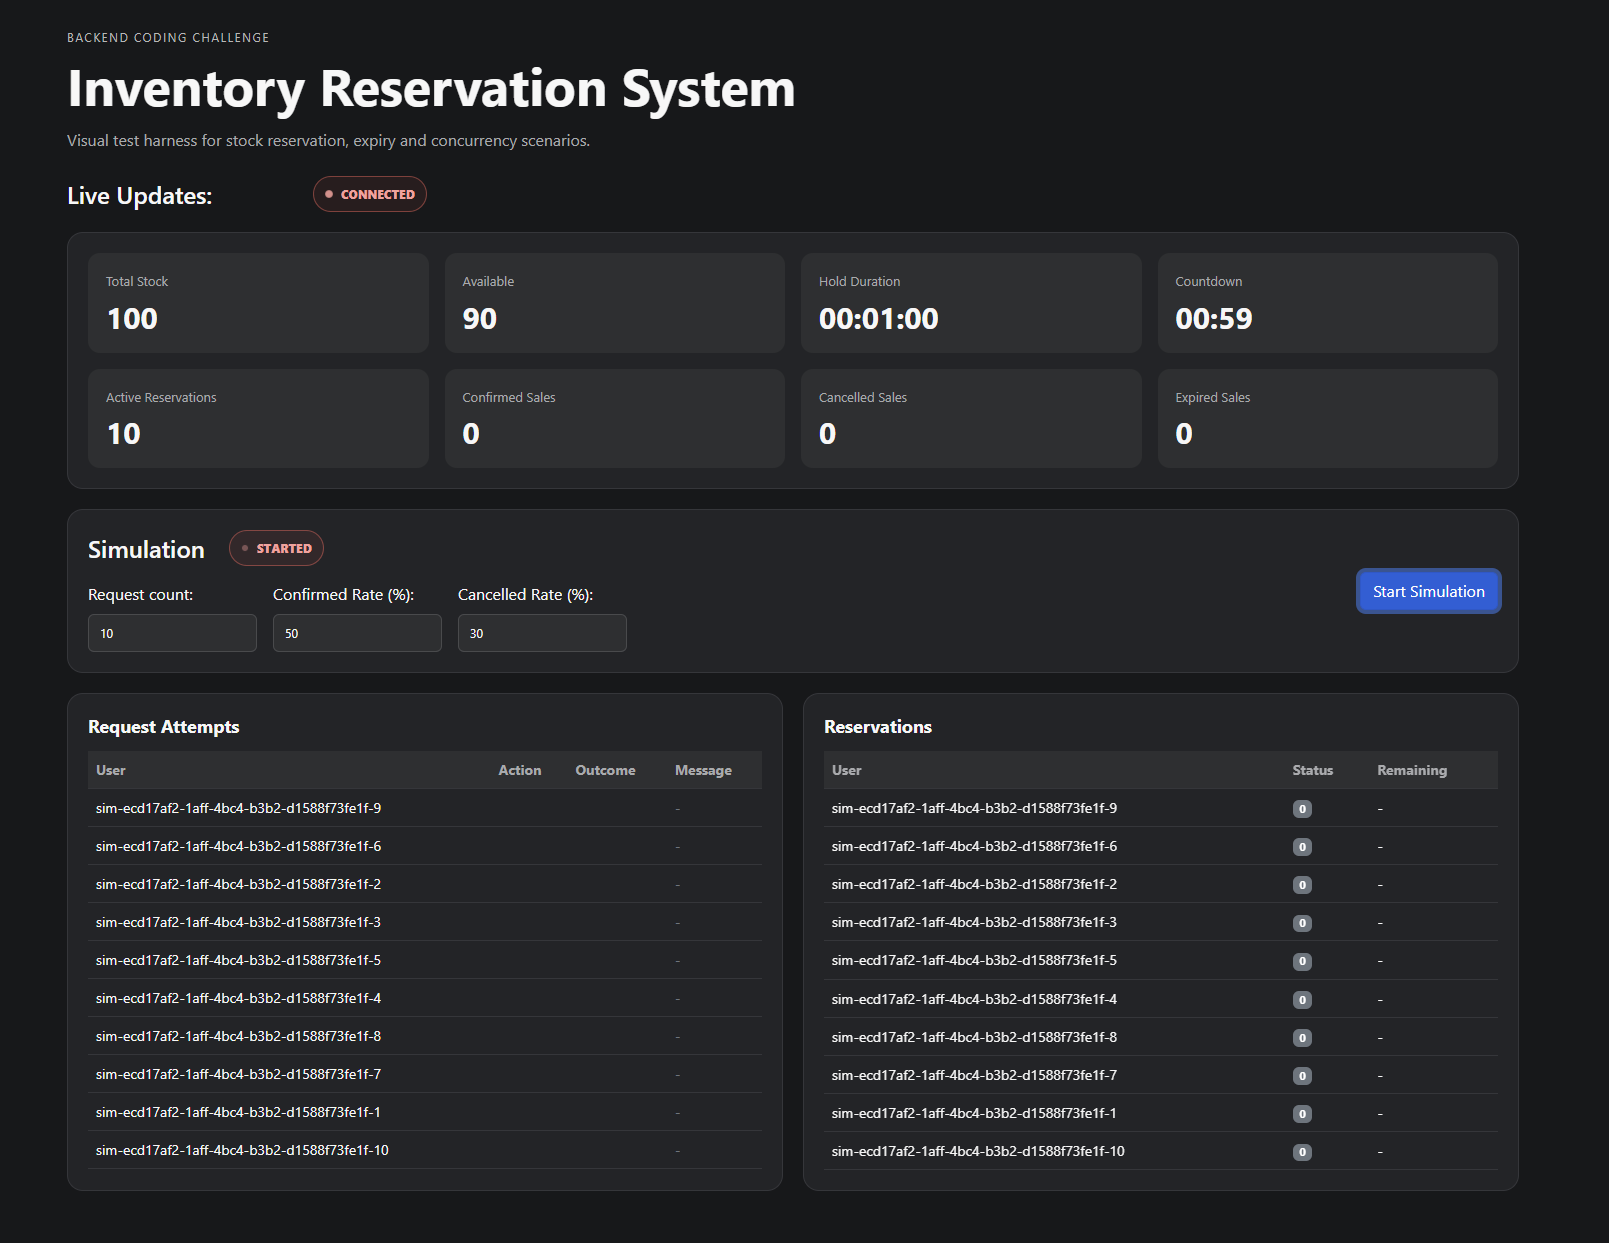
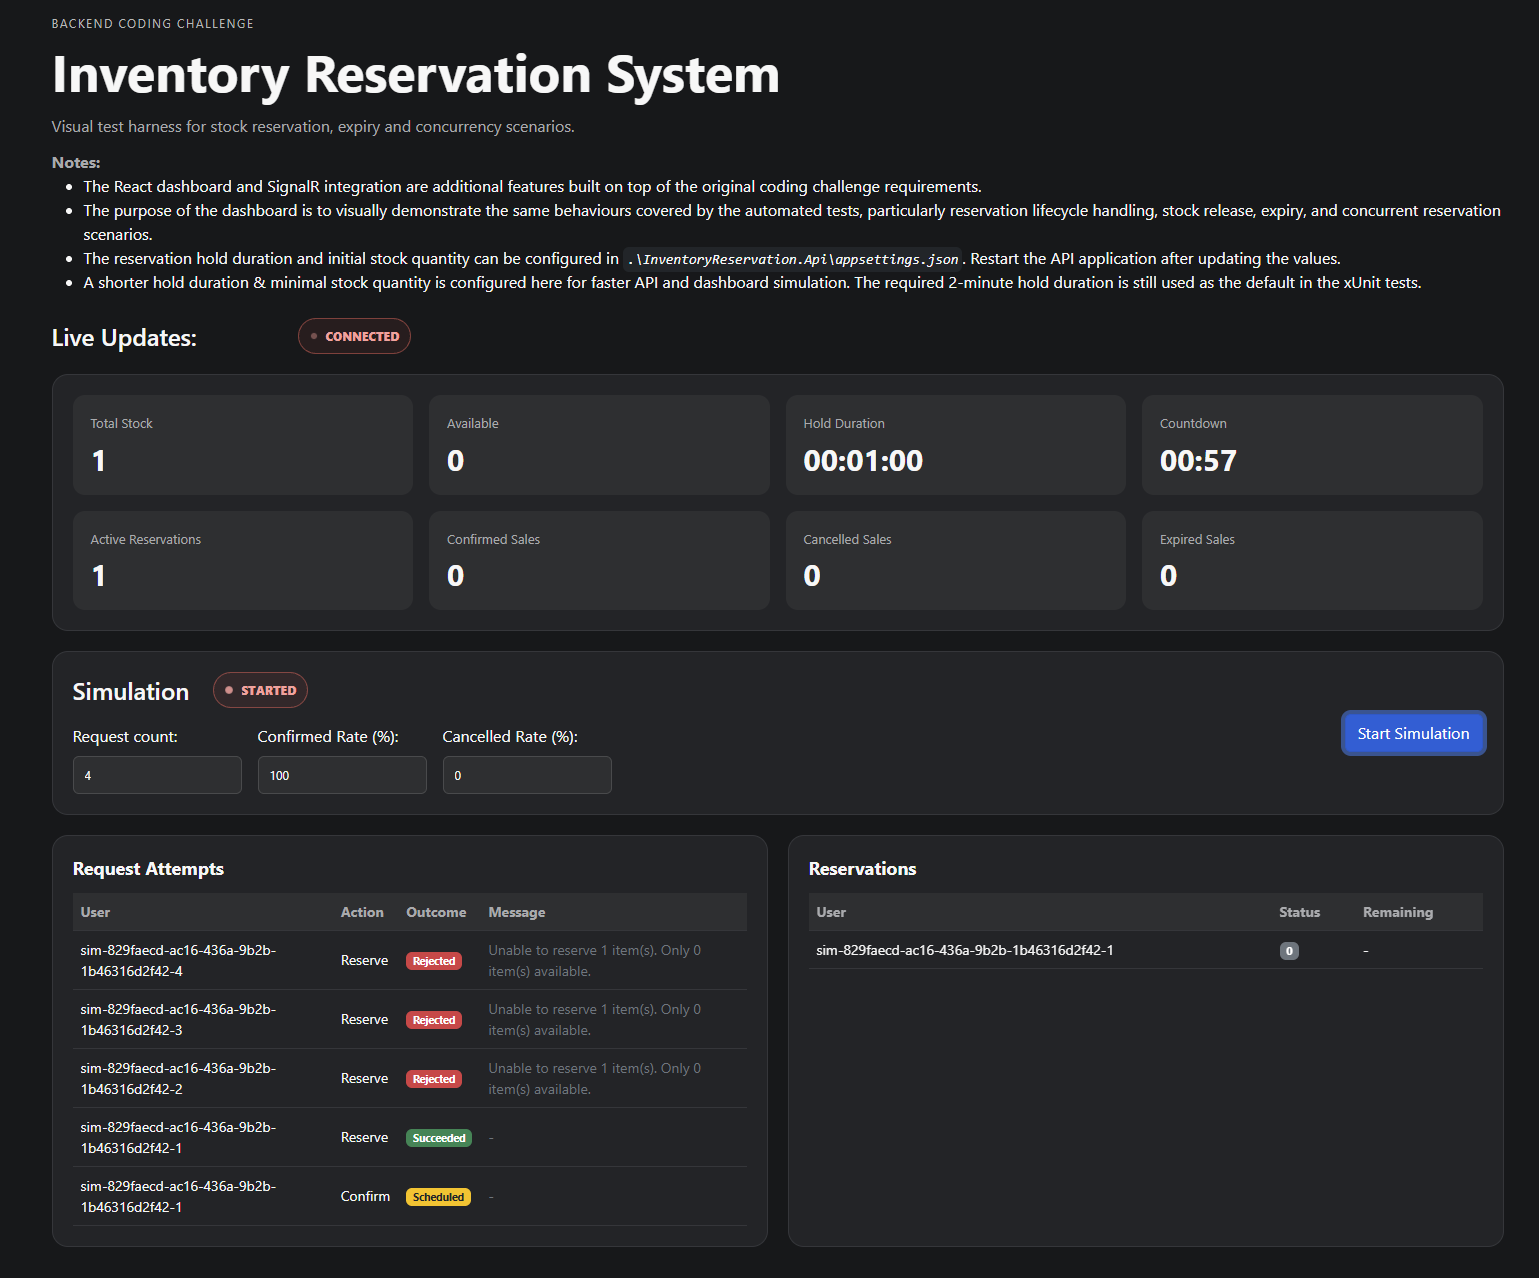
docs: Update README to clearly mention the objective / additional notes for UI Dashboard
fix:
1. improve API return object for UI
2. Fix & improve UI dashboard logic to show simulated events
3. Added callbacks to some components to handle reservation lifecycle progress

diff --git a/InventoryReservation.Web/src/App.jsx b/InventoryReservation.Web/src/App.jsx
@@ -15,6 +15,7 @@ export default function App() {
   const [holdDuration, setHoldDuration] = useState("");
   const [simulationStart, setSimulationStart] = useState(false);
   const [countdownEndTime, setCountdownEndTime] = useState(null);
+  const [simulationEvents, setSimulationEvents] = useState([]);
 
   useEffect(() => {
     getHoldDurationConfig().then((data) => {
@@ -28,8 +29,11 @@ export default function App() {
     const holdDurationSeconds = 60;
 
     setCountdownEndTime(Date.now() + holdDurationSeconds * 1000);
-
     // start simulation...
+  };
+
+  const handleSimulationEvent = (event) => {
+    setSimulationEvents((previous) => [...previous, event]);
   };
 
   return (
@@ -41,6 +45,35 @@ export default function App() {
           Visual test harness for stock reservation, expiry and concurrency
           scenarios.
         </p>
+        <p className="subtitle">
+          <strong>Notes:</strong>
+        </p>
+
+        <ul>
+          <li>
+            The React dashboard and SignalR integration are additional features
+            built on top of the original coding challenge requirements.
+          </li>
+          <li>
+            The purpose of the dashboard is to visually demonstrate the same
+            behaviours covered by the automated tests, particularly reservation
+            lifecycle handling, stock release, expiry, and concurrent
+            reservation scenarios.
+          </li>
+          <li>
+            The reservation hold duration and initial stock quantity can be
+            configured in{" "}
+            <code className="bg-dark text-light p-1 rounded">
+              <i>.\InventoryReservation.Api\appsettings.json</i>
+            </code>
+            . Restart the API application after updating the values.
+          </li>
+          <li>
+            A shorter hold duration & minimal stock quantity is configured here
+            for faster API and dashboard simulation. The required 2-minute hold
+            duration is still used as the default in the xUnit tests.
+          </li>
+        </ul>
       </header>
       <div className="row mt-4">
         <div className="col-sm-2 d-flex align-items-center">
@@ -71,10 +104,12 @@ export default function App() {
           setSimulationStart(value);
           handleStartSimulation();
         }}
+
+        callbackSimulationEvent={handleSimulationEvent}
       />
 
       <section className="grid">
-        <RequestAttemptsTable inventorySnapshot={inventorySnapshot} />
+        <RequestAttemptsTable simulationEvents={simulationEvents} />
         <ReservationsTable inventorySnapshot={inventorySnapshot} />
       </section>
     </main>

diff --git a/InventoryReservation.Web/src/components/SimulationControls.jsx b/InventoryReservation.Web/src/components/SimulationControls.jsx
@@ -4,16 +4,17 @@ import PropTypes from "prop-types";
 
 const defaultSimulationFormData = {
   requestCount: 10,
-  confirmedRate: 50,
-  cancelledRate: 30,
+  confirmedRate: 100,
+  cancelledRate: 0,
 };
 
 SimulationControls.propTypes = {
   onSimulationStart: PropTypes.func,
+  callbackSimulationEvent: PropTypes.func,
 };
 
 export default function SimulationControls(props) {
-  const { onSimulationStart } = props;
+  const { onSimulationStart, callbackSimulationEvent } = props;
 
   const [formData, setFormData] = useState(defaultSimulationFormData);
   const [errors, setErrors] = useState({});
@@ -27,11 +28,11 @@ export default function SimulationControls(props) {
   }, []);
 
   const handleChange = (e) => {
-    const { name, value } = e.target;
+    const { name, value, type } = e.target;
 
     setFormData((current) => ({
       ...current,
-      [name]: value,
+      [name]: type === "number" && !isNaN(value) ? Number(value) : value,
     }));
 
     if (errors[name]) {
@@ -59,15 +60,15 @@ export default function SimulationControls(props) {
         "Request count must be a positive integer.";
     }
 
-    if (Number(formData.confirmedRate) === 0) {
-      validationErrors.confirmedRate =
-        "Confirm percentages must be positive integer.";
-    }
+    // if (Number(formData.confirmedRate) === 0) {
+    //   validationErrors.confirmedRate =
+    //     "Confirm percentages must be positive integer.";
+    // }
 
-    if (Number(formData.cancelledRate) === 0) {
-      validationErrors.cancelledRate =
-        "Cancel percentages must be positive integer.";
-    }
+    // if (Number(formData.cancelledRate) === 0) {
+    //   validationErrors.cancelledRate =
+    //     "Cancel percentages must be positive integer.";
+    // }
 
     if (
       !validationErrors.confirmedRate &&
@@ -102,8 +103,7 @@ export default function SimulationControls(props) {
       cancelPercent: formData.cancelledRate,
       onEvent: (event) => {
         setSimulationEvents((previous) => [...previous, event]);
-        console.debug("onEvent: ", event);
-        console.debug("onEvent: ", simulationEvents);
+        callbackSimulationEvent(event);
       },
     };
 

diff --git a/InventoryReservation.Web/src/components/RequestAttemptsTable.jsx b/InventoryReservation.Web/src/components/RequestAttemptsTable.jsx
@@ -1,11 +1,11 @@
 import PropTypes from "prop-types";
 
 RequestAttemptsTable.propTypes = {
-  inventorySnapshot: PropTypes.object,
+  simulationEvents: PropTypes.object,
 };
 
 export default function RequestAttemptsTable(props) {
-  const { inventorySnapshot } = props;
+  const { simulationEvents } = props;
 
   return (
     <section className="card">
@@ -23,14 +23,14 @@ export default function RequestAttemptsTable(props) {
           </thead>
 
           <tbody>
-            {inventorySnapshot?.reservations.length === 0 ? (
+            {simulationEvents?.length === 0 ? (
               <tr>
                 <td colSpan="4" className="text-center text-secondary py-4">
                   No request attempts yet.
                 </td>
               </tr>
             ) : (
-              inventorySnapshot?.reservations.map((attempt, index) => (
+              simulationEvents?.map((attempt, index) => (
                 <tr key={`${attempt.userId}-${index}`}>
                   <td>{attempt.userId}</td>
 

diff --git a/InventoryReservation.Web/src/styles.css b/InventoryReservation.Web/src/styles.css
@@ -106,6 +106,7 @@ body {
 .page-shell .subtitle {
   margin: 12px 0 0;
   color: var(--ir-muted);
+  text-align: justify;
 }
 
 .page-shell .muted {

diff --git a/InventoryReservation.Api/Program.cs b/InventoryReservation.Api/Program.cs
@@ -11,15 +11,15 @@ builder.Services.AddSignalR();
 // One process-wide instance for the in-memory POC.
 builder.Services.AddHostedService<ReservationExpiryWorker>();
 builder.Services.AddSingleton<IInventoryService, InMemoryInventoryService>();
+builder.Services.Configure<ReservationOptions>(
+    builder.Configuration.GetSection("Reservation"));
 builder.Services.AddSingleton(new Product
 {
     Id = Guid.Parse("8982c329-ab2d-4596-8fcd-6772d3c3b203"),
     Sku = "FLASHSALEPHEADPHONE-001",
     DisplayName = "Flash Sale Headphones",
-    TotalStock = 100
+    TotalStock = builder.Configuration.GetValue<int>("Reservation:StockQuantity"),
 });
-builder.Services.Configure<ReservationOptions>(
-    builder.Configuration.GetSection("Reservation"));
 builder.Services.AddSingleton(TimeProvider.System);
 builder.Services.AddCors(options =>
 {

diff --git a/InventoryReservation.Api/Controllers/ReservationsController.cs b/InventoryReservation.Api/Controllers/ReservationsController.cs
@@ -41,7 +41,7 @@ public sealed class ReservationsController(IInventoryService inventoryService, I
         }
 
         await inventoryHub.Clients.All.ReservationConfirmed(result.Reservation!);
-        return Ok(result.Reservation);
+        return Ok(result);
     }
 
     [HttpPost("{id}/cancel")]
@@ -57,6 +57,6 @@ public sealed class ReservationsController(IInventoryService inventoryService, I
         }
 
         await inventoryHub.Clients.All.ReservationCancelled(result.Reservation!);
-        return Ok(result.Reservation);
+        return Ok(result);
     }
 }

diff --git a/README.md b/README.md
@@ -389,6 +389,21 @@ The dashboard provides a simple real-time view of the reservation system:
 
 The purpose of the dashboard is to visually demonstrate the same behaviours covered by the automated tests, particularly reservation lifecycle handling, stock release, expiry, and concurrent reservation scenarios.
 
+**Note:** The reservation hold duration and initial stock quantity can be configured in `.\InventoryReservation.Api\appsettings.json`. Restart the API application after updating the values.
+
+```json
+{
+  "Reservation": {
+    "HoldDuration": "00:01:00", -- 
+    "StockQuantity": 1
+  },
+
+....
+
+```
+> ***Note: A shorter hold duration & minimal stock quantity is configured here for faster API and dashboard simulation. The required 2-minute hold duration is still used as the default in the xUnit tests.***
+
+
 ---
 
 ## Current Scope and Production Considerations
